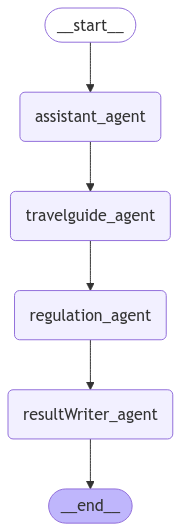
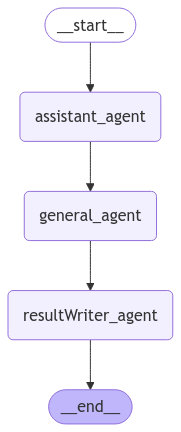
fix: assistant agent

diff --git a/utils/agents.py b/utils/agents.py
@@ -27,11 +27,11 @@ def assistantAgent(state: AgentState):
         Anda adalah seoarang pemecah pertanyaan pengguna.
         Tergantung pada jawaban Anda, akan mengarahkan ke agent yang tepat.
         Ada 4 konteks diajukan (Pilih hanya 1 konteks yang paling sesuai saja):
-        - GENERAL_AGENT - Pertanyaan mengenai sapaan. 
-        - TRAVELGUIDE_AGENT - Pertanyaan mengenai pengguna ingin melakukan perjalanan atau liburan.
-        - TRAVELPLANNER_AGENT - Pertanyaan mengenai rencana perjalanan dengan menyebutkan darimana berasal (origin), tujuan ingin kemana (destination), dan preferensi perjalanan mengenai apa (preference).
+        - TRAVELGUIDE_AGENT - Jika pertanyaan mengacu pada tujuan wisata saja.
+        - TRAVELPLANNER_AGENT - Jika pengguna dengan jelas mengatakan tempat asal, kemudian tempat tujuan dan prefrensinya secara lengkap.
         - REGULATION_AGENT - Pertanyaan yang menyebutkan mengenai regulasi atau aturan-aturan yang diperlukan di tempat wisata.
-        Jawab pertanyaan dan sertakan pertanyaan pengguna dengan contoh seperti ({"GENERAL_AGENT": "Pertanyaannya"} atau {"TRAVELGUIDE_AGENT": "Pertanyaannya"} atau {"TRAVELPLANNER_AGENT": "Pertanyaannya"} atau {"REGULATION_AGENT": "Pertanyaannya"}).
+        - GENERAL_AGENT - Ketika pertanyaan diluar nalar (berwisata ke luar angkasa, tempat yang tidak nyata dan lain-lain) tidak jelas dalam konteks mencari tempat wisata, dan tidak sesuai dengan konteks diatas. 
+        Jawab pertanyaan dan sertakan pertanyaan pengguna dengan contoh seperti {"NAMA_AGENT": "pertanyaan pengguna"}.
         Buat dengan format data JSON tanpa membuat key baru.
     """
     messagesTypeQuestion = [

diff --git a/main.py b/main.py
@@ -40,4 +40,4 @@ def run(question):
     get_graph_image(graph)
 
 # DEBUG QUESTION
-run("berikan rekomendasi tempat wisata di ubud")
+run("halo")
